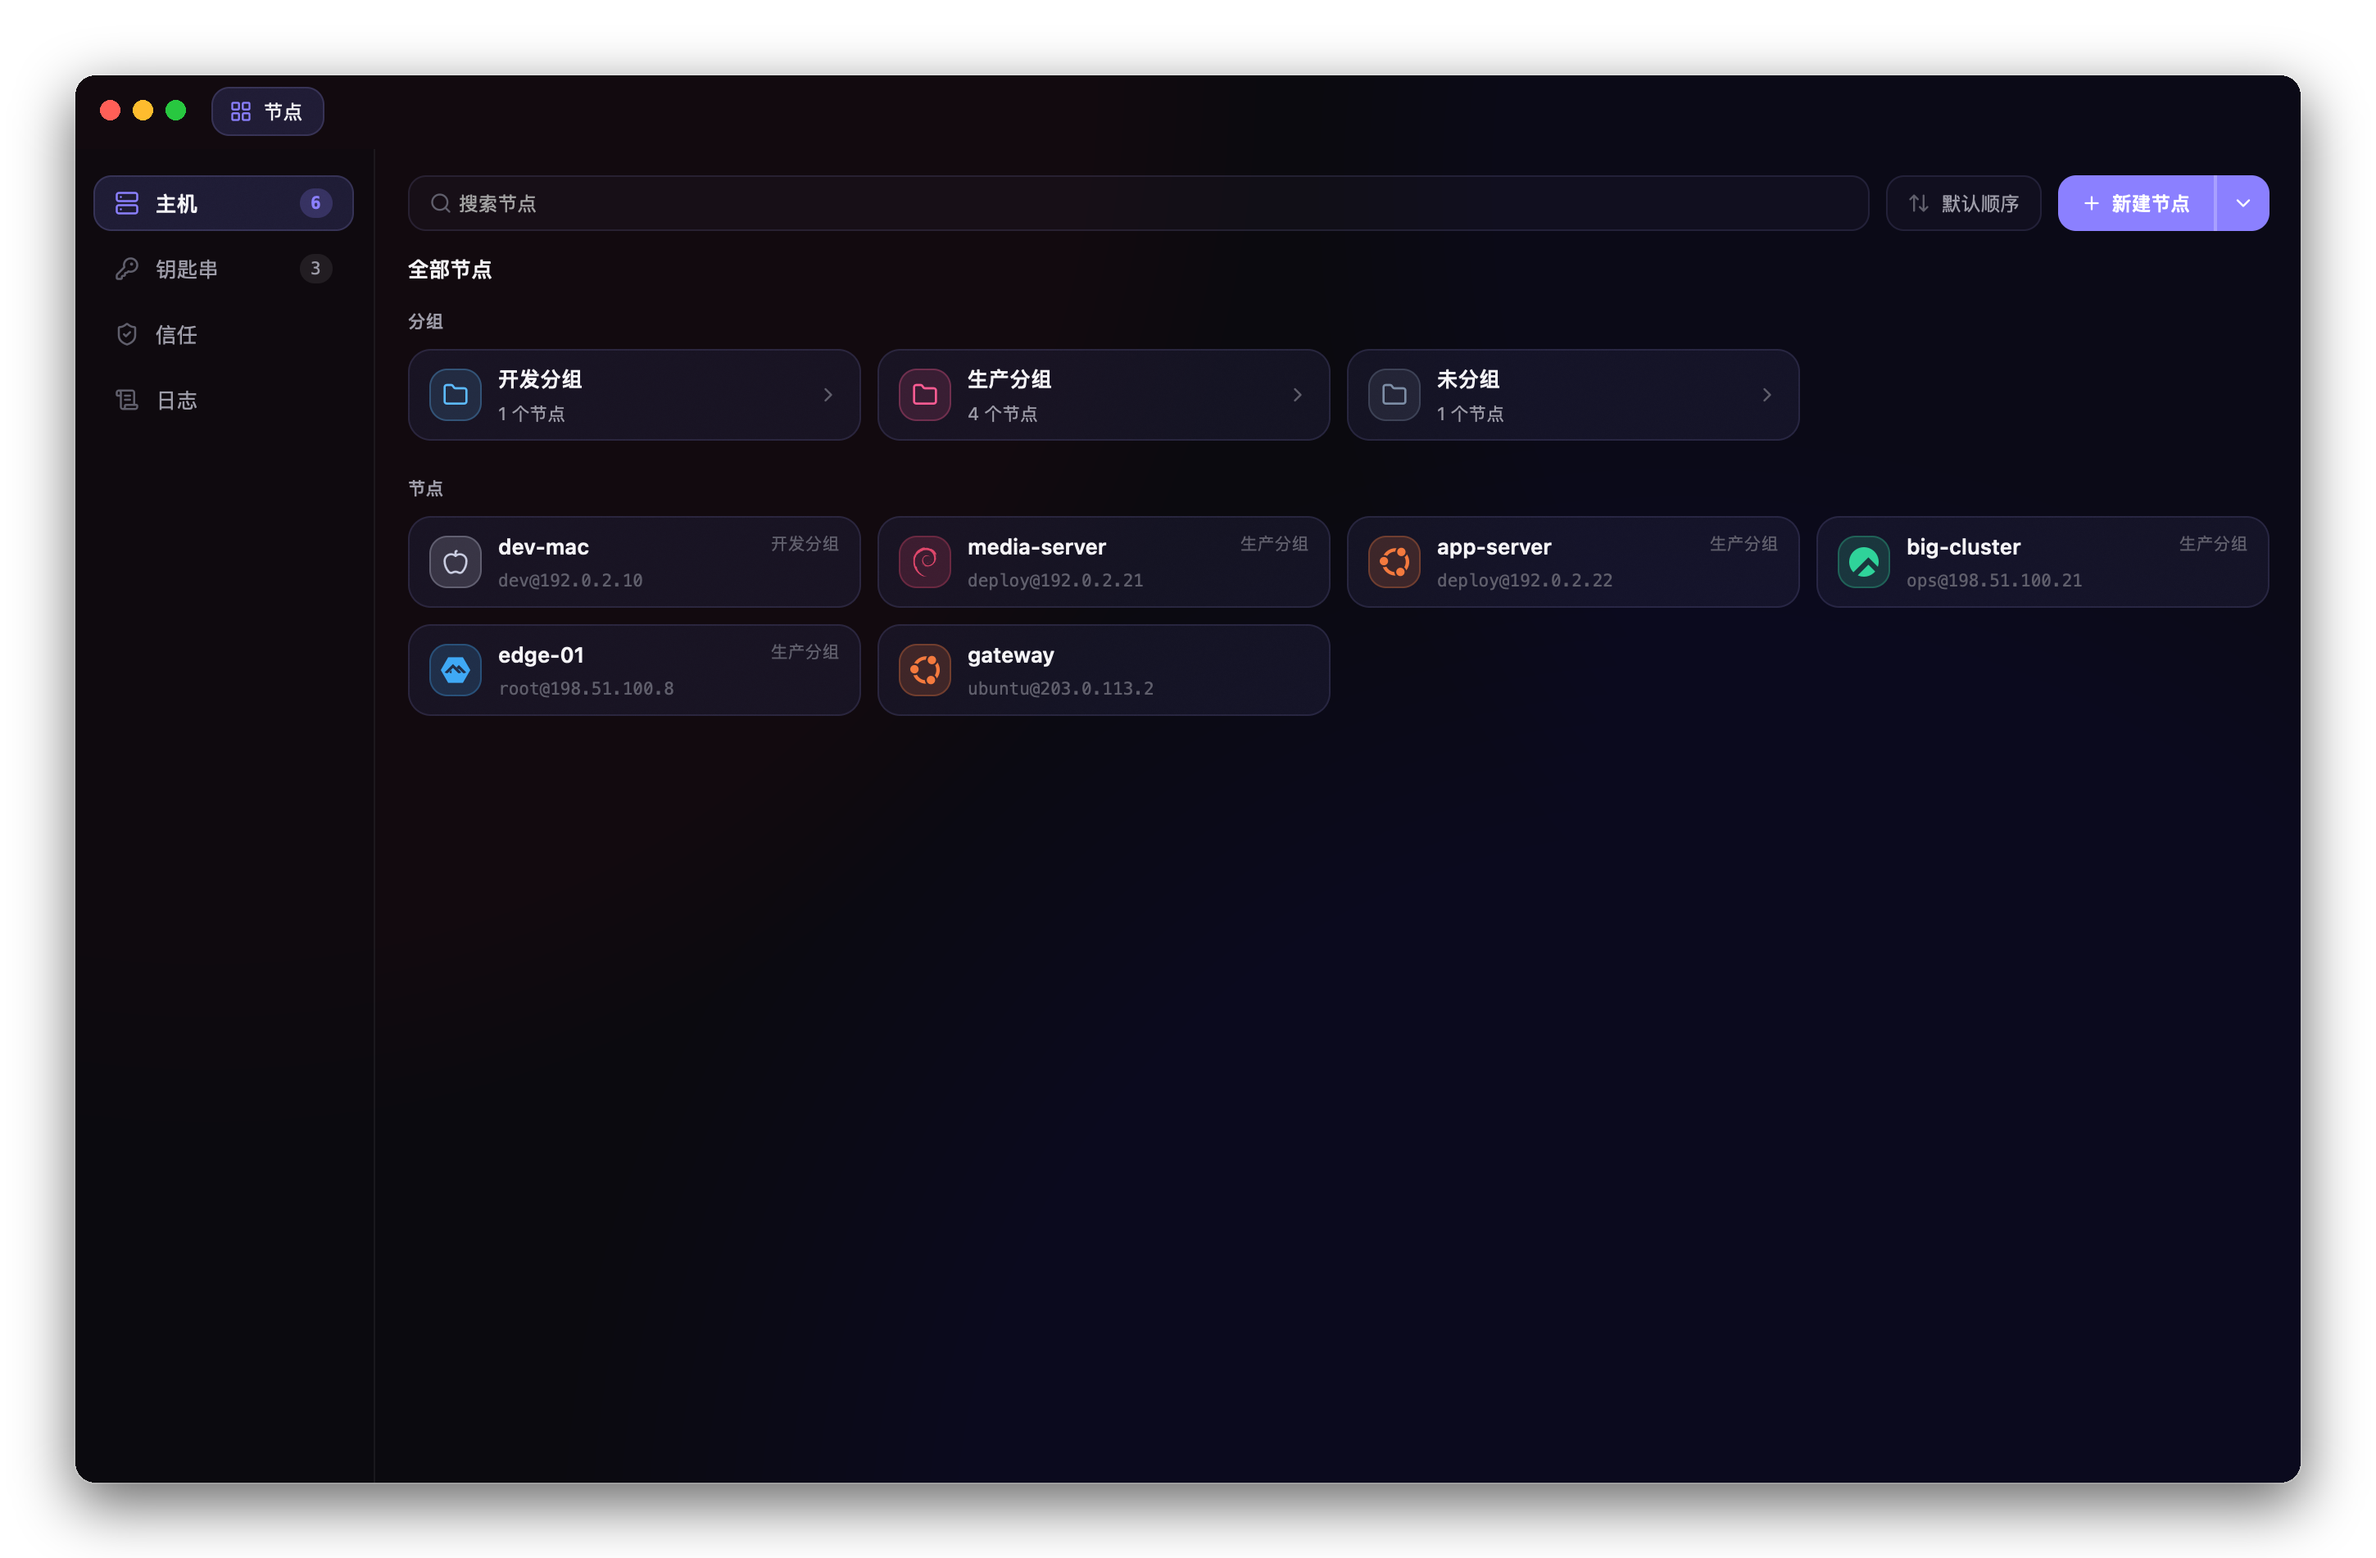
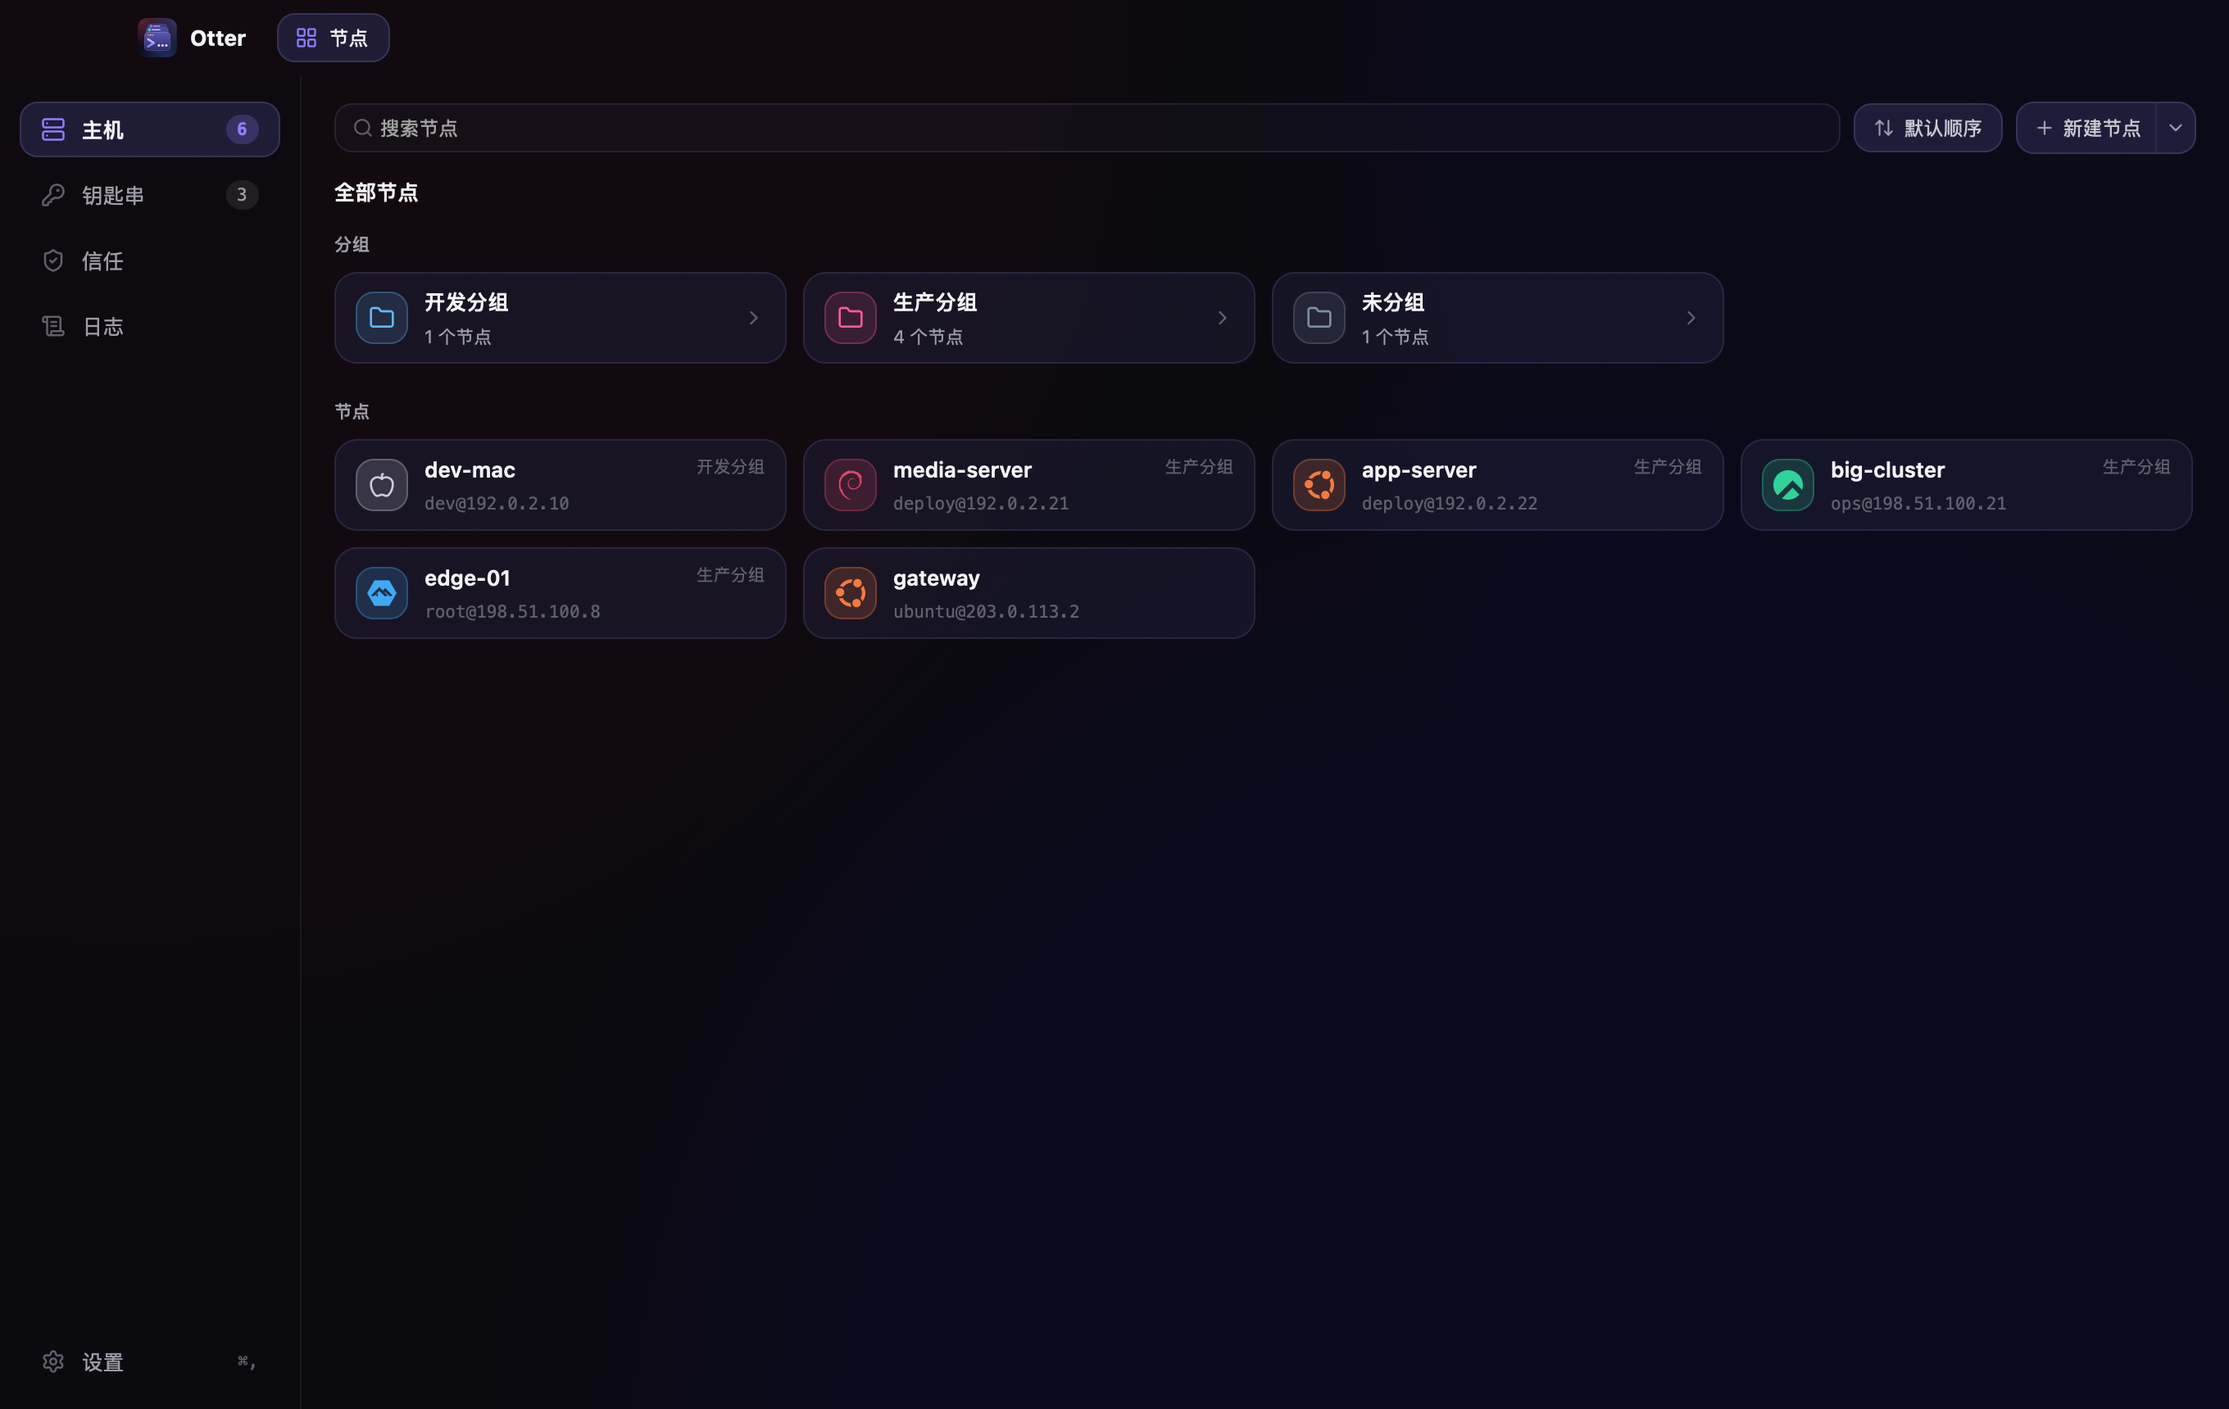
README 和截图:更新功能介绍(Docker、应用商店、数据库、网站、服务器运维),新增堆栈和应用商店截图,重拍节点页

diff --git a/README.en.md b/README.en.md
@@ -2,11 +2,15 @@
 
 [中文](README.md) · English
 
-A native SSH client: terminal and files (SFTP) in one window. Built in Rust on [GPUI](https://www.gpui.rs) and [russh](https://github.com/Eugeny/russh).
+A native SSH client: terminal, files (SFTP) and server management (Docker, databases, websites, app store) in one window, with nothing installed on the server. Built in Rust on [GPUI](https://www.gpui.rs) and [russh](https://github.com/Eugeny/russh).
 
 ## Screenshots
 
 ![Nodes](assets/screenshots/nodes.png)
+
+![Stacks](assets/screenshots/stacks.png)
+
+![App store](assets/screenshots/store.png)
 
 ![Files](assets/screenshots/files.png)
 
@@ -16,6 +20,7 @@ A native SSH client: terminal and files (SFTP) in one window. Built in Rust on [
 
 - **Native and small**: a Rust app drawing straight on the GPU, with no Electron or browser engine bundled. The macOS download is about 16 MB.
 - **Fast**: launches in about 0.25 s (MacBook Pro, Apple M5 Pro), and long scrolling lists stay smooth.
+- **Nothing installed on servers**: everything goes over SSH. No agent, daemon or web panel on the server, and no extra management port exposed.
 - **Safe by default**: passwords and key passphrases are encrypted on disk, with the master key in the system keychain. An agent can never take over a terminal without your approval.
 
 ## Features
@@ -23,7 +28,11 @@ A native SSH client: terminal and files (SFTP) in one window. Built in Rust on [
 - **Nodes & groups**: organize servers, search, import from CSV or `~/.ssh/config`.
 - **SSH terminal**: password, private key or SSH agent auth.
 - **Files (SFTP)**: browse, preview, drag-and-drop upload, create folders, delete; also inside containers.
-- **Docker** (in development): stacks, containers, images and volumes; start, stop, restart, delete.
+- **Docker**: stacks, containers, images, volumes and registries; start, stop, restart, delete, edit and deploy compose files, delete stacks.
+- **App store**: one-click install of PostgreSQL, MySQL, MariaDB, Redis, OpenResty and more, with one install / upgrade / uninstall flow. The catalog refreshes daily from the repository, and installed apps are checked for upgrades silently.
+- **Databases**: manage databases and users, view and change common parameters and config files, copy connection info in one click.
+- **Websites**: manage OpenResty sites (reverse proxy, static, redirect), HTTPS certificates (issue and renew), performance and security settings.
+- **Server ops**: processes, services, cron jobs, storage (space lens).
 - **Auto update**: checks GitHub Releases and updates in place from the header.
 - **Agent interface**: let an AI agent read your nodes and, with your approval, take over a terminal session.
 
@@ -37,7 +46,7 @@ Download from the [Releases](../../releases) page:
 
 ## Usage
 
-Open Otter, add a node (or import), and click it to open its terminal, files and Docker tabs.
+Open Otter, add a node (or import), and click it to open its terminal, files (SFTP) and server management (containers, databases, websites, app store and more).
 
 ### Agents
 

diff --git a/README.md b/README.md
@@ -2,11 +2,15 @@
 
 中文 · [English](README.en.md)
 
-原生 SSH 客户端:终端和文件(SFTP)放在一个窗口里。基于 [GPUI](https://www.gpui.rs) 和 [russh](https://github.com/Eugeny/russh),Rust 编写。
+原生 SSH 客户端:终端、文件(SFTP)和服务器管理(Docker、数据库、网站、应用商店)放在一个窗口里,服务器上不用装任何东西。基于 [GPUI](https://www.gpui.rs) 和 [russh](https://github.com/Eugeny/russh),Rust 编写。
 
 ## 截图
 
 ![节点页](assets/screenshots/nodes.png)
+
+![堆栈](assets/screenshots/stacks.png)
+
+![应用商店](assets/screenshots/store.png)
 
 ![文件管理](assets/screenshots/files.png)
 
@@ -16,6 +20,7 @@
 
 - **原生、体积小**:Rust 编写,直接用 GPU 渲染,没有打包 Electron 或浏览器内核。macOS 安装包约 16 MB。
 - **启动快**:启动约 0.25 秒(MacBook Pro,Apple M5 Pro),长列表滚动也流畅。
+- **服务器零安装**:所有操作走 SSH,服务器上不装 agent、守护进程和 Web 面板,也不对外开管理端口。
 - **默认安全**:密码和私钥口令加密存储,主密钥放在系统钥匙串;agent 没有你的同意绝不能接管终端。
 
 ## 功能
@@ -23,7 +28,11 @@
 - **节点与分组**:服务器分组、搜索,支持从 CSV 或 `~/.ssh/config` 导入。
 - **SSH 终端**:密码、私钥、SSH Agent 认证。
 - **文件(SFTP)**:浏览、预览、拖入上传、新建文件夹、删除;容器内的文件也能看。
-- **Docker**(开发中):堆栈、容器、镜像、存储卷;启动、停止、重启、删除。
+- **Docker**:堆栈、容器、镜像、存储卷、镜像仓库;启动、停止、重启、删除,编辑 compose 文件并部署,删除堆栈。
+- **应用商店**:一键安装 PostgreSQL、MySQL、MariaDB、Redis、OpenResty 等,统一的安装、升级、卸载流程;商店列表每天从仓库更新,已装应用静默检查可升级版本。
+- **数据库**:管理数据库和用户,查看和修改常用参数、配置文件,连接信息一键复制。
+- **网站**:基于 OpenResty 管理站点(反向代理、静态站、跳转)、HTTPS 证书(签发与续期)、性能和安全设置。
+- **服务器运维**:进程、服务、计划任务、存储(空间透镜)。
 - **自动更新**:通过 GitHub Release 检查新版本,在标题栏一键更新。
 - **Agent 接口**:让 AI agent 读取节点信息,并在你同意后接管终端会话。
 
@@ -37,7 +46,7 @@
 
 ## 使用
 
-打开 Otter,添加节点(或导入),点节点卡片即可打开它的终端、文件和 Docker 标签。
+打开 Otter,添加节点(或导入),点节点卡片即可打开它的终端、文件(SFTP)和服务器管理(容器、数据库、网站、应用商店等)。
 
 ### Agent
 
